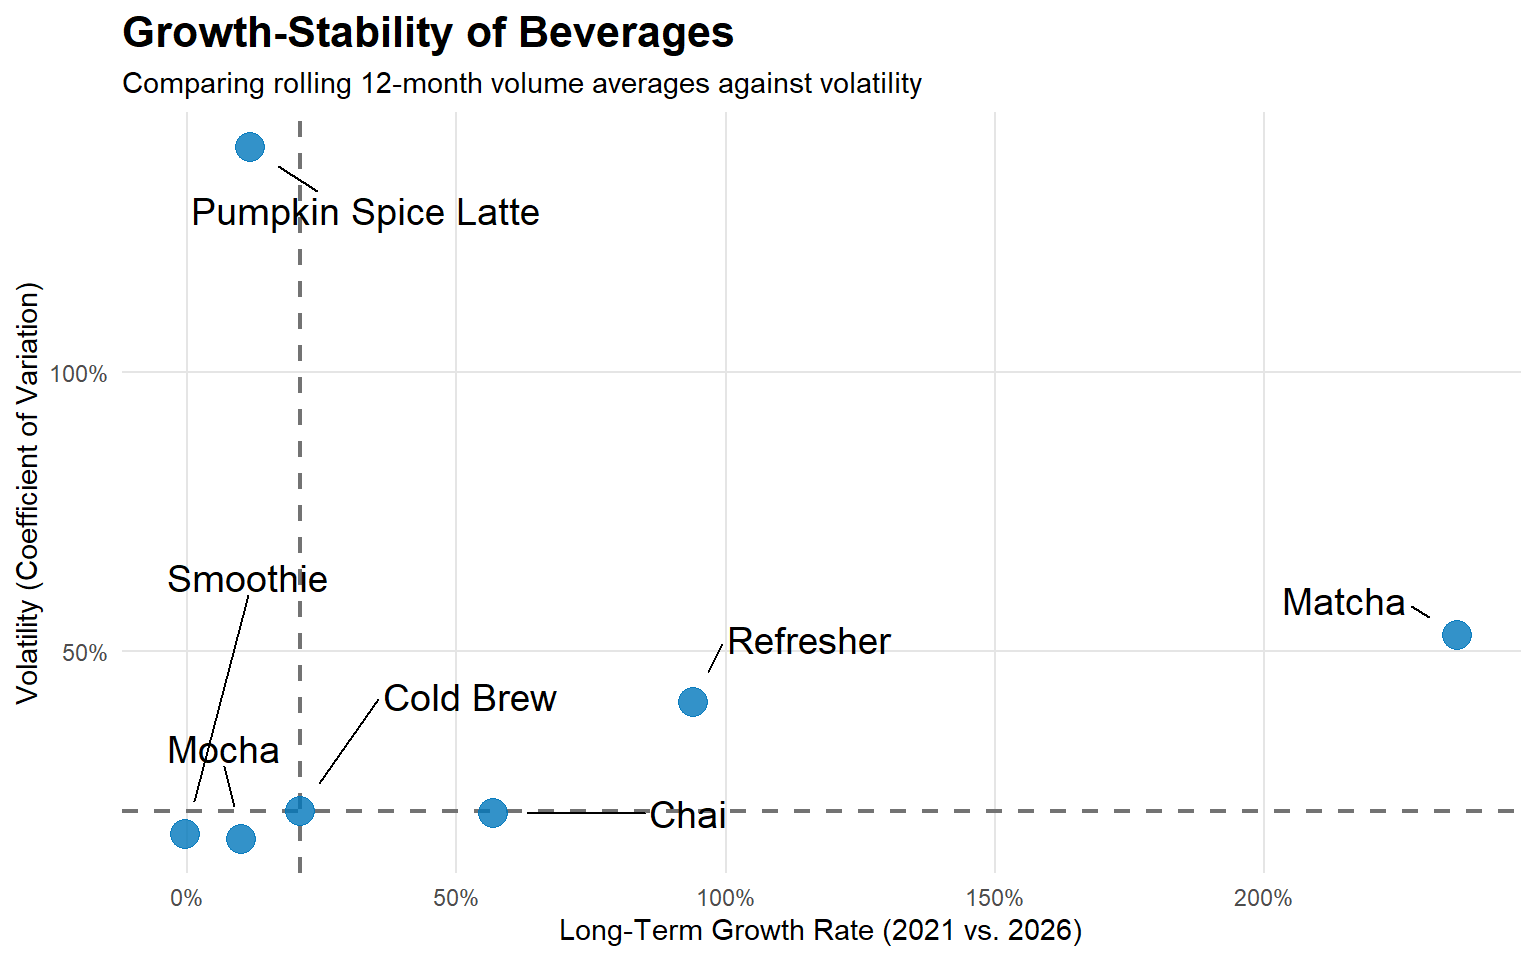
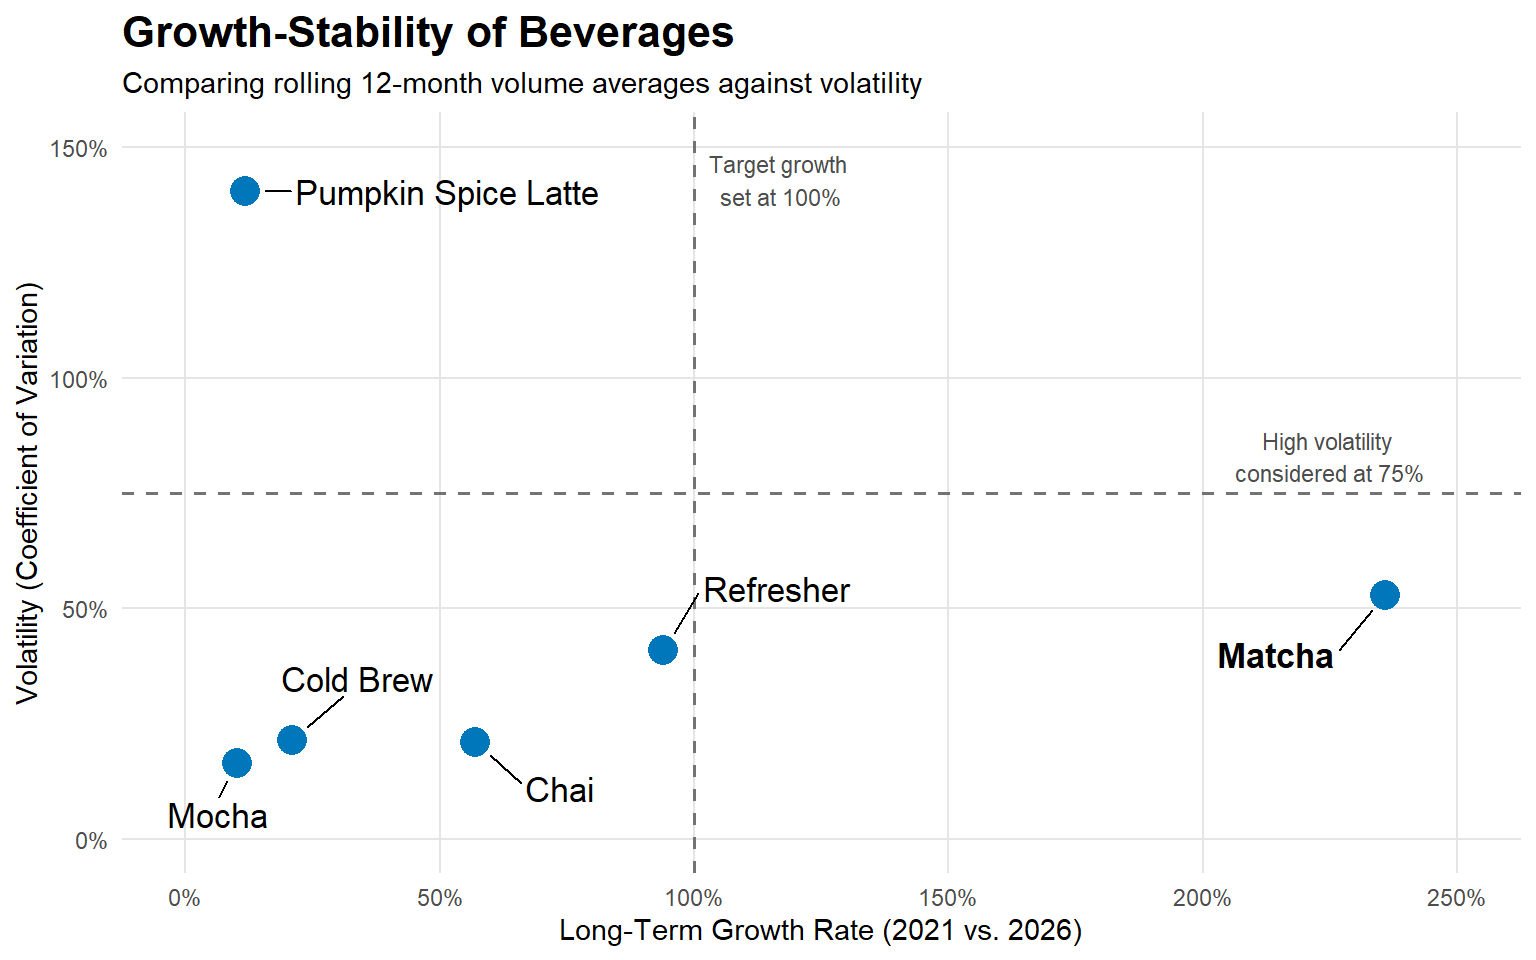
minor aesthetic changes

diff --git a/matcha_dashboard1.html b/matcha_dashboard1.html
@@ -36,9 +36,9 @@ ul.task-list li input[type="checkbox"] {
 <link href="matcha_dashboard1_files/libs/quarto-html/quarto-syntax-highlighting-7b89279ff1a6dce999919e0e67d4d9ec.css" rel="stylesheet" class="quarto-color-scheme-extra" id="quarto-text-highlighting-styles">
 <script src="matcha_dashboard1_files/libs/bootstrap/bootstrap.min.js"></script>
 <link href="matcha_dashboard1_files/libs/bootstrap/bootstrap-icons.css" rel="stylesheet">
-<link href="matcha_dashboard1_files/libs/bootstrap/bootstrap-7bdf1c8e8f98638fa310f44532f0922b.min.css" rel="stylesheet" append-hash="true" class="quarto-color-scheme" id="quarto-bootstrap" data-mode="light">
-<link href="matcha_dashboard1_files/libs/bootstrap/bootstrap-dark-7bdf1c8e8f98638fa310f44532f0922b.min.css" rel="stylesheet" append-hash="true" class="quarto-color-scheme quarto-color-alternate" id="quarto-bootstrap" data-mode="light">
-<link href="matcha_dashboard1_files/libs/bootstrap/bootstrap-7bdf1c8e8f98638fa310f44532f0922b.min.css" rel="stylesheet" append-hash="true" class="quarto-color-scheme-extra" id="quarto-bootstrap" data-mode="light">
+<link href="matcha_dashboard1_files/libs/bootstrap/bootstrap-84c8d5c2e34268ee538ea9617045fb67.min.css" rel="stylesheet" append-hash="true" class="quarto-color-scheme" id="quarto-bootstrap" data-mode="light">
+<link href="matcha_dashboard1_files/libs/bootstrap/bootstrap-dark-84c8d5c2e34268ee538ea9617045fb67.min.css" rel="stylesheet" append-hash="true" class="quarto-color-scheme quarto-color-alternate" id="quarto-bootstrap" data-mode="light">
+<link href="matcha_dashboard1_files/libs/bootstrap/bootstrap-84c8d5c2e34268ee538ea9617045fb67.min.css" rel="stylesheet" append-hash="true" class="quarto-color-scheme-extra" id="quarto-bootstrap" data-mode="light">
 <script src="matcha_dashboard1_files/libs/quarto-dashboard/quarto-dashboard.js"></script>
 <script src="matcha_dashboard1_files/libs/quarto-dashboard/stickythead.js"></script>
 
